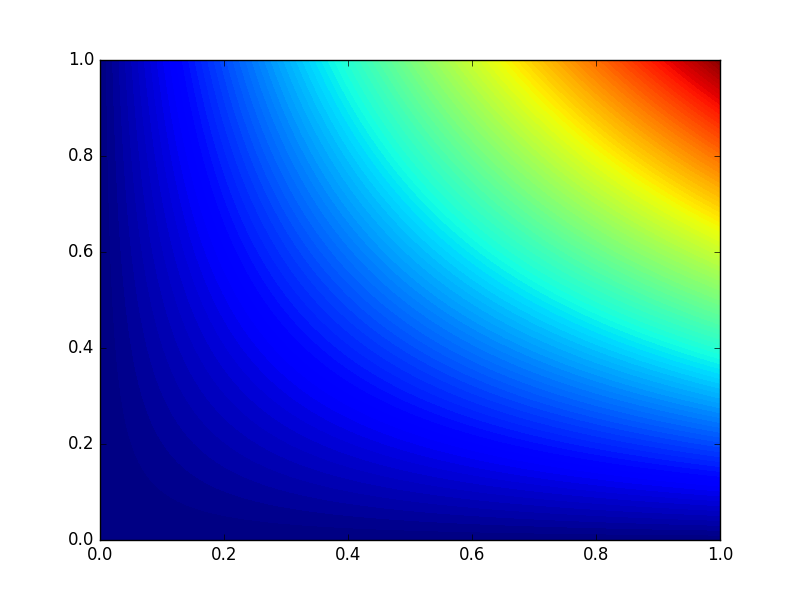
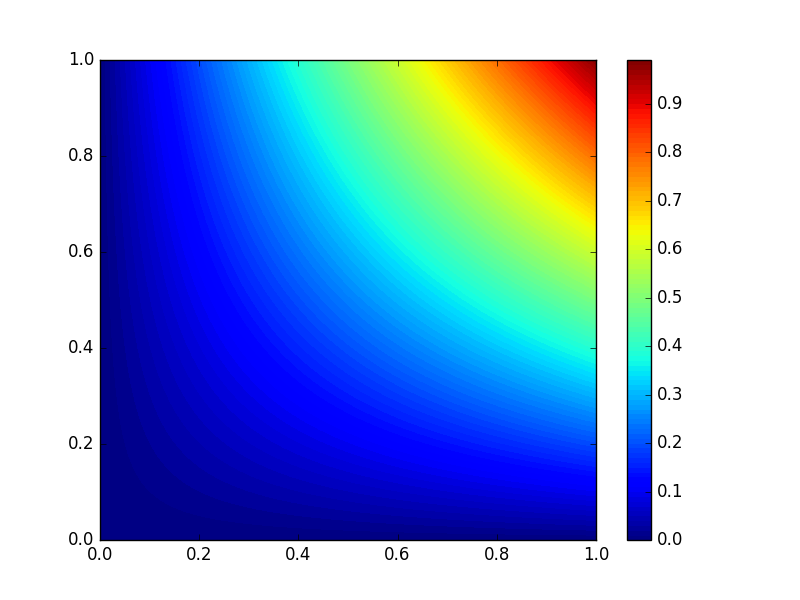
finished interpolated thingy. missing makefile

diff --git a/exam/main.py b/exam/main.py
@@ -6,7 +6,6 @@ np.seterr(divide='ignore', invalid='ignore')
 
 x = np.array([0,1])
 y = np.array([0,1])
-z = np.linspace(x[0],len(x),100)
 nx = len(x)
 ny = len(y)
 F = np.zeros((nx,ny))
@@ -19,18 +18,12 @@ for i in range(len(x)):
     for j in range(len(y)):
         F[j][i] = x[i]*y[j]
 
-Flist = np.ravel(F)
-
 k = 0
 l = 0
 for k in range(len(x)):
     n[0+len(x)*l:len(x)+len(x)*l,0] = x[l]
     n[0+len(x)*l:len(x)+len(x)*l,1] = y[l]
     l += 1
-
-i = 0
-for i in range(len(Flist)):
-    n[i][2] = Flist[i]
 
 kappa = np.zeros((100,100))
 
@@ -50,13 +43,6 @@ while px < 1:
     px += 0.01
     countx +=1
 
-# def column(matrix, i):
-#     return [row[i] for row in matrix]
-#
-# xvals = column(n,0)
-# yvals = column(n,1)
-# Fvals = column(n,2)
-
 plt.figure(1)
 plt.contourf(x,y,F)
 plt.colorbar()
@@ -64,22 +50,5 @@ plt.savefig('noninterpolated.png',format='png')
 
 plt.figure(2)
 plt.contourf(np.linspace(0,1,100),np.linspace(0,1,100),kappa,len(kappa))
+plt.colorbar()
 plt.savefig('interpolated.png',format='png')
-
-
-#
-#
-#
-#
-#
-# plt.imshow(F)
-# plt.savefig('test.png',format='png')
-#
-# print 'Original Array:'
-# print [x,y]
-#
-# print 'F array'
-# print F
-#
-# print 'Bilinear interpolation'
-# print f1
